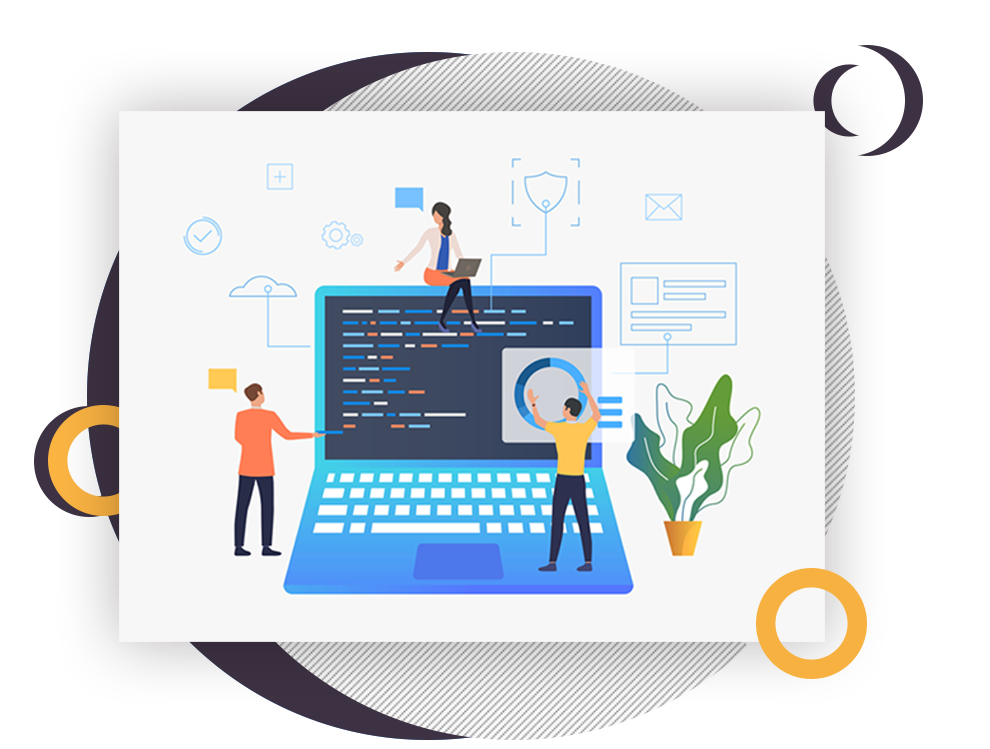
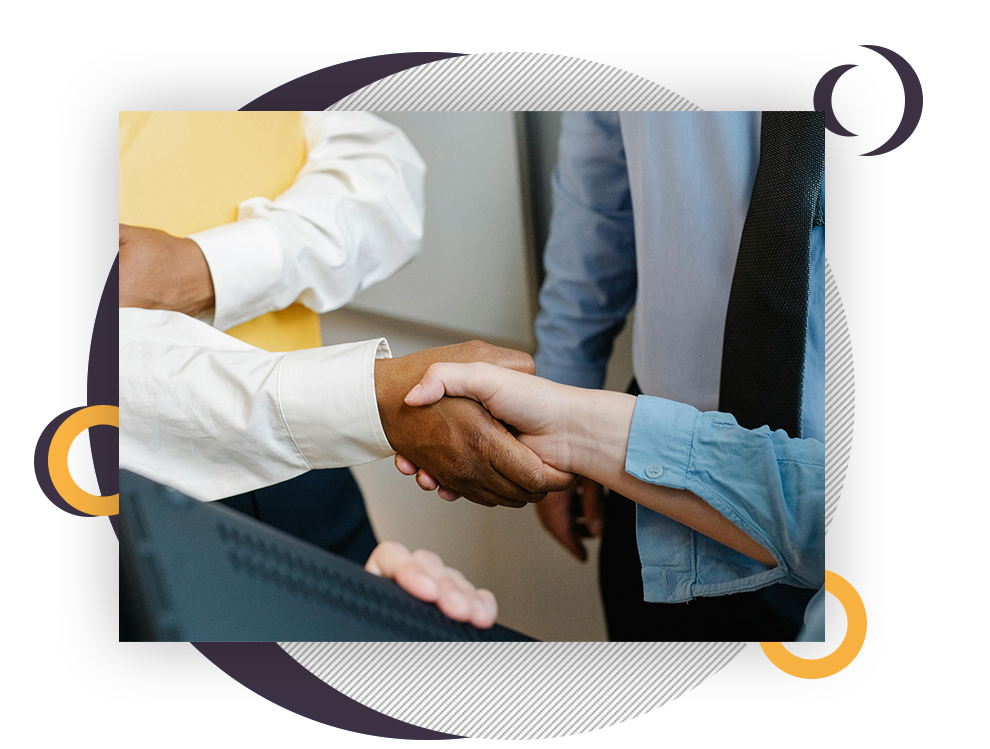
practice: Updated main images

diff --git a/index.html b/index.html
@@ -156,7 +156,7 @@
                            </div>
                            <div class="col-xl-7 col-lg-7 col-md-7 col-sm-12">
                               <div class="images_box">
-                                 <figure><img src="images/img2.png"></figure>
+                                 <figure><img src="images/img1.png"></figure>
                               </div>
                            </div>
                         </div>
@@ -203,7 +203,7 @@
                            </div>
                            <div class="col-xl-7 col-lg-7 col-md-7 col-sm-12">
                               <div class="images_box">
-                                 <figure><img src="images/img2.png"></figure>
+                                 <figure><img src="images/img3.png"></figure>
                               </div>
                            </div>
                         </div>
@@ -225,7 +225,7 @@
                <div class="row d_flex">
                   <div class="col-md-5">
                      <div class="about_img">
-                        <figure><img src="images/about_img.jpg" alt="#" /></figure>
+                        <figure><img src="images/VoSymbol_Creative_Ads.png" alt="#" /></figure>
                      </div>
                   </div>
                   <div class="col-md-7">
@@ -288,8 +288,15 @@
                <div class="row d_flex">
                   <div class="col-md-7">
                      <div class="titlepage">
-                        <h2>More <span class="blu">info</span></h2>
-                        <p>More content here soon!</p>
+                        <h2>The problem and <span class="blu">solusion</span></h2>
+                        <p>Nowadays, people make rapid decisions, and poor design repels customers. If your logo appears 
+                           unprofessional, people will immediately doubt your capacity to deliver your products and services. 
+                           When you look at a business online, have you ever used the back button or picked one firm over 
+                           another based on their reputation? </p>
+                        <p>A well-designed logo establishes trust by demonstrating professionalism and encouraging consumers to stay. 
+                           It gives potential clients information about who you are, what you do, and how to assist them. 
+                           That's why at VoSymbol, we promise to provide the most innovative logo designs for your business.</p>
+
                      </div>
                   </div>
                   <div class="col-md-5">
